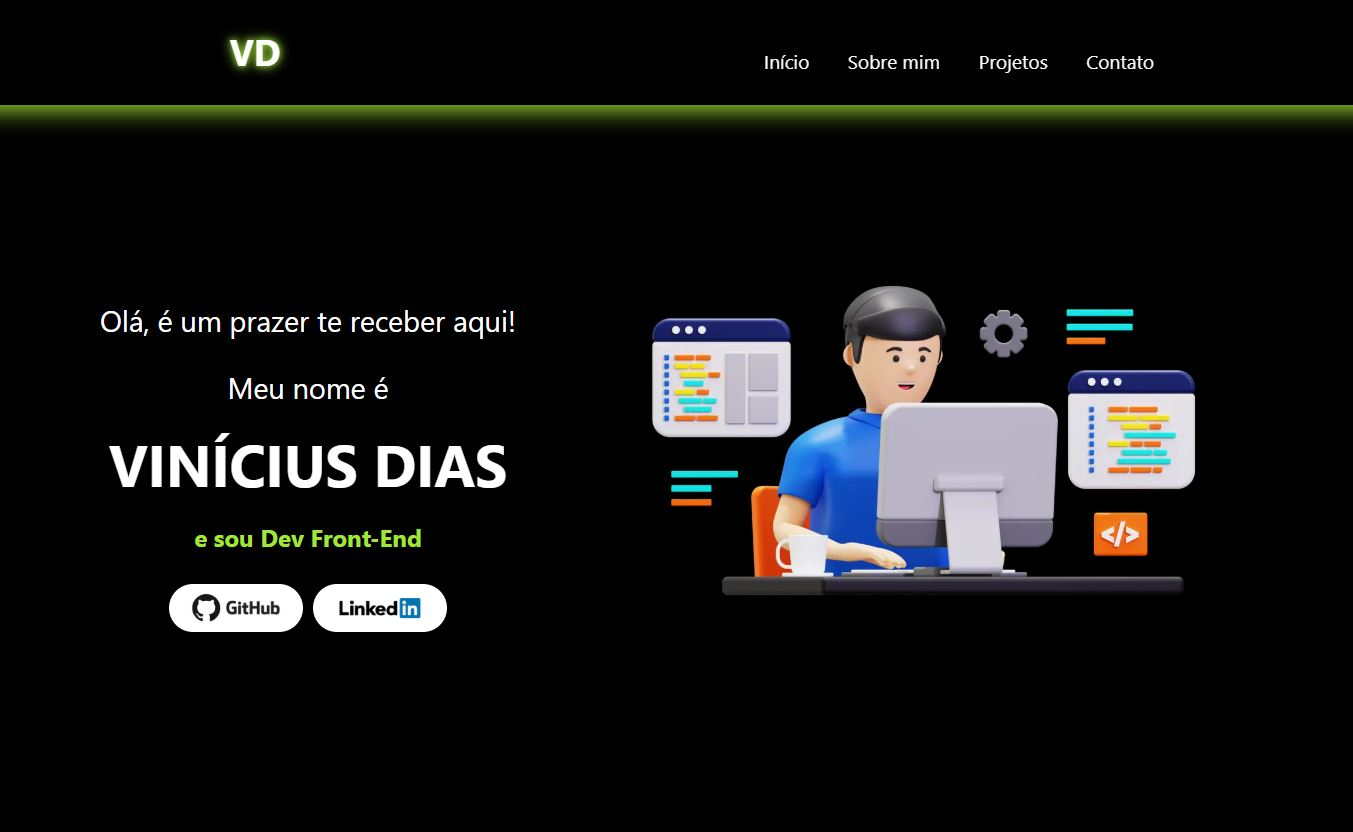
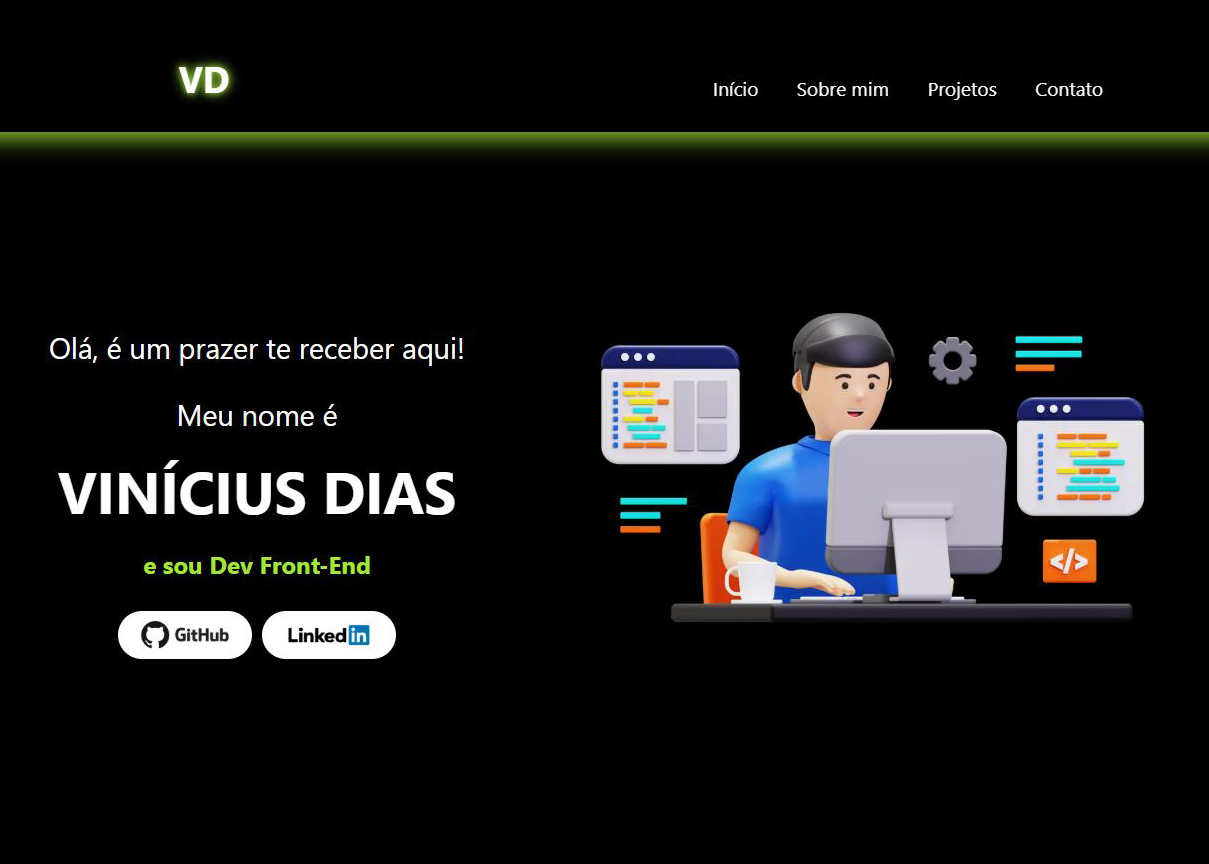
refinamento 3

diff --git a/src/components/Contact.tsx b/src/components/Contact.tsx
@@ -1,7 +1,12 @@
 "use client";
 import React, { useRef } from "react";
 import emailjs from "@emailjs/browser";
-import { FaWhatsapp, FaInstagram, FaEnvelope } from "react-icons/fa";
+import {
+  FaWhatsapp,
+  FaInstagram,
+  FaEnvelope,
+  FaLinkedin,
+} from "react-icons/fa";
 
 export default function Contact() {
   const form = useRef<HTMLFormElement>(null);
@@ -77,15 +82,23 @@ export default function Contact() {
           href="https://instagram.com/vinicius_edias/"
           target="_blank"
           rel="noopener noreferrer"
-          className="w-12 h-12 flex items-center justify-center rounded-full bg-pink-500 text-white text-xl hover:scale-110 transition"
+          className="w-12 h-12 flex items-center justify-center rounded-full bg-pink-500 hover:bg-pink-800 text-white text-xl hover:scale-110 transition"
         >
           <FaInstagram />
         </a>
         <a
           href="mailto:diasvinicius0401@gmail.com"
-          className="w-12 h-12 flex items-center justify-center rounded-full bg-gray-600 text-white text-xl hover:scale-110 transition"
+          className="w-12 h-12 flex items-center justify-center rounded-full bg-gray-600 hover:bg-gray-800 text-white text-xl hover:scale-110 transition"
         >
           <FaEnvelope />
+        </a>
+        <a
+          href="https://www.linkedin.com/in/vinicius-ed-dias/"
+          target="_blank"
+          rel="noopener noreferrer"
+          className="w-12 h-12 flex items-center justify-center rounded-full text-white text-xl bg-blue-600 hover:bg-blue-800 hover:scale-110 transition"
+        >
+          <FaLinkedin />
         </a>
       </div>
     </section>

diff --git a/tailwind.config.js b/tailwind.config.js
@@ -14,7 +14,8 @@ module.exports = {
         lightning: "lightning 1s infinite",
       },
       boxShadow: {
-        glow: "0 0 15px rgba(255, 255, 255, 0.6), 0 0 30px rgba(255, 255, 255, 0.4)", // Para brilho ao redor do raio
+        glow: "0 0 15px #a3e635, 0 0 30px #a3e635",
+        neon: "0 0 10px #a3e635, 0 0 20px #a3e635, 0 0 30px #a3e635",
       },
       keyframes: {
         glow: {
@@ -22,7 +23,7 @@ module.exports = {
             boxShadow: "0 0 10px #a3e635, 0 0 30px #a3e635",
           },
           "50%": {
-            boxShadow: "0 0 20px #1e3a8a, 0 0 40px #1e3a8a",
+            boxShadow: "0 0 20px #a3e635, 0 0 40px #a3e635",
           },
         },
         textGlow: {
@@ -30,7 +31,7 @@ module.exports = {
             textShadow: "0 0 5px #a3e635, 0 0 10px #a3e635",
           },
           "50%": {
-            textShadow: "0 0 10px #1e3a8a, 0 0 20px #1e3a8a",
+            textShadow: "0 0 10px #a3e635, 0 0 20px #a3e635",
           },
         },
         lightning: {
@@ -50,6 +51,7 @@ module.exports = {
       },
     },
   },
+  safelist: ["shadow-neon"],
   plugins: [
     function ({ addUtilities }) {
       addUtilities({

diff --git a/src/components/Apresentation.tsx b/src/components/Apresentation.tsx
@@ -8,7 +8,7 @@ function Apresentation() {
       id="inicio"
       className="my-8 md:my-0 md:min-h-screen p-4 flex flex-col flex-wrap sm:flex-row gap-2 sm:gap-10 items-center justify-center text-white"
     >
-      <div className="flex flex-col gap-4 items-center">
+      <div className="flex flex-col flex-wrap gap-4 items-center justify-center">
         <h2 className="text-2xl">Olá, é um prazer te receber aqui!</h2>
         <h2 className="text-2xl">Meu nome é</h2>
         <h1 className="text-3xl sm:text-5xl font-bold">VINÍCIUS DIAS</h1>
